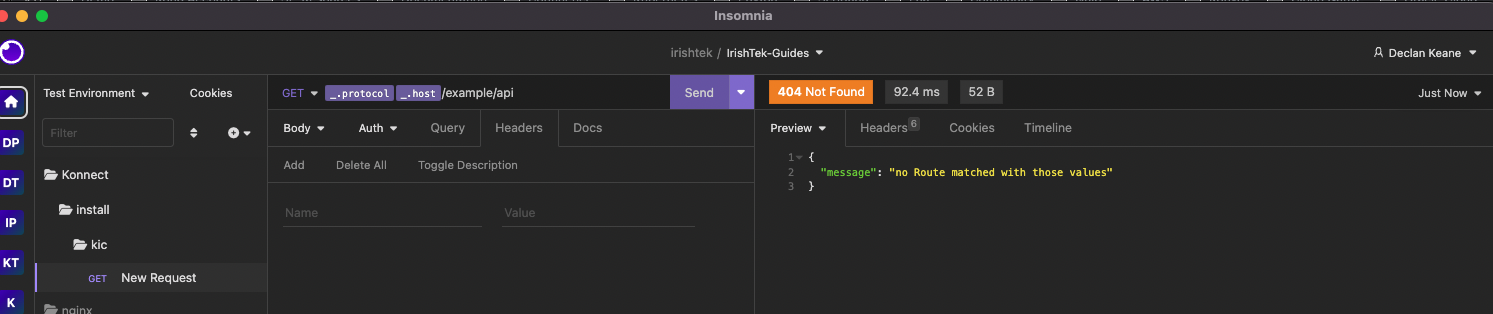
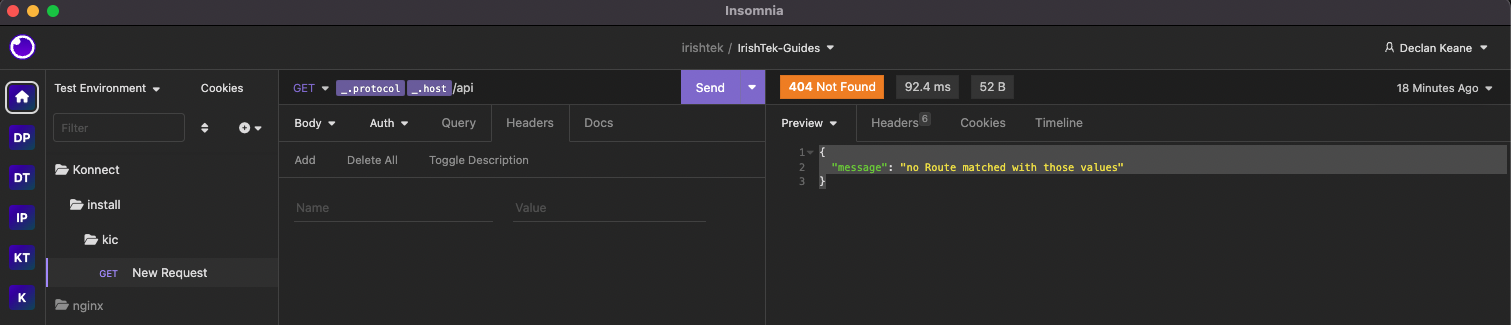
Adding the service

diff --git a/kong-konnect/config*/services-and-routes/kic/README.md b/kong-konnect/config*/services-and-routes/kic/README.md
@@ -31,3 +31,8 @@ ingress.networking.k8s.io/demo-echo-ingress   kong    *       35.238.199.221   8
 
 ![Services](images/services.png)
 
+5. The ingress will expose the echo service over `api`. If you go to the insomnia repo, you will see it available there.
+
+[Testing API](images/testing.png)
+
+Once you get a response, you should be good to go!
